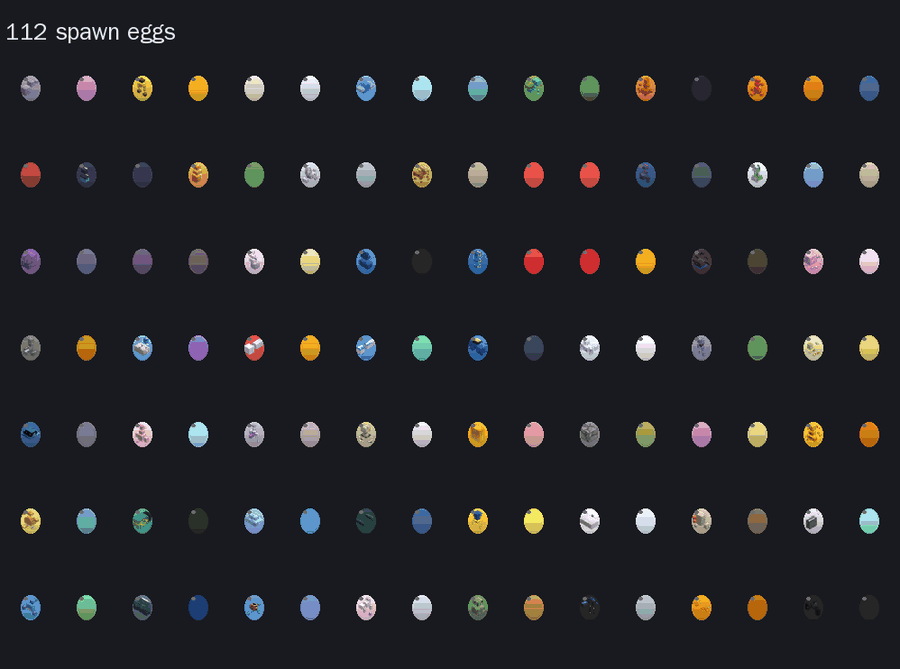
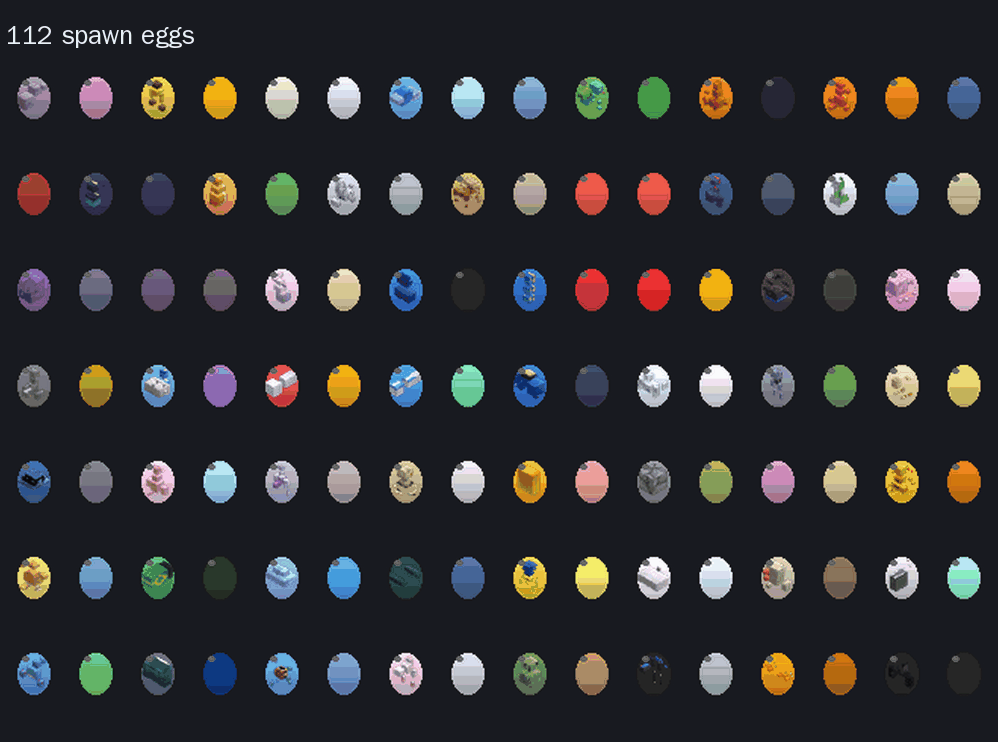
docs: use Pokedex portraits for the species sheet
- entity textures are UV atlases (unreadable when tiled) -> use dex_*.png portraits instead
- anchors lang regex to line start so labels are species names, not spawn-egg names
- bigger cells (150px, 6 columns) and LANCZOS upscaling so each species is legible
- drop the redundant dex.png sheet

diff --git a/tools/gen_docs_images.py b/tools/gen_docs_images.py
@@ -45,7 +45,8 @@ def grid(images, cols, cell, pad, labels=None, title=None, label_h=34):
         y = head + pad + r * (cell + label_h + pad)
         box = Image.new("RGBA", (cell, cell), (0, 0, 0, 0))
         im2 = im.copy()
-        im2.thumbnail((cell - 8, cell - 8), Image.LANCZOS)
+        im2 = im2.resize((int(im2.width * min((cell - 8) / im2.width, (cell - 8) / im2.height)),
+                          int(im2.height * min((cell - 8) / im2.width, (cell - 8) / im2.height))), Image.LANCZOS)
         box.alpha_composite(im2, ((cell - im2.width) // 2, (cell - im2.height) // 2))
         canvas.paste(box, (x, y), box)
         if labels:
@@ -59,12 +60,13 @@ def main(pack_dir, out_dir):
     zh = open(os.path.join(rp, "texts", "zh_CN.lang"), encoding="utf-8").read()
     ja = open(os.path.join(rp, "texts", "ja_JP.lang"), encoding="utf-8").read()
     en = open(os.path.join(rp, "texts", "en_US.lang"), encoding="utf-8").read()
-    ZH = dict(re.findall(r"entity\.poke:([a-z_]+)\.name=(.+)", zh))
-    JA = dict(re.findall(r"entity\.poke:([a-z_]+)\.name=(.+)", ja))
-    EN = dict(re.findall(r"entity\.poke:([a-z_]+)\.name=(.+)", en))
+    ZH = dict(re.findall(r"^entity\.poke:([a-z_]+)\.name=(.+)", zh, re.M))
+    JA = dict(re.findall(r"^entity\.poke:([a-z_]+)\.name=(.+)", ja, re.M))
+    EN = dict(re.findall(r"^entity\.poke:([a-z_]+)\.name=(.+)", en, re.M))
 
     base = sorted(k for k in ZH if not k.endswith("_shiny"))
-    tex = {os.path.basename(p)[:-4]: p for p in glob.glob(os.path.join(rp, "textures", "entity", "pokemon", "*.png"))}
+    # 實體貼圖是 UV 展開圖，直接拼會變碎片 → 用圖鑑頭像（角色臉）
+    tex = {os.path.basename(p)[4:-4]: p for p in glob.glob(os.path.join(rp, "textures", "ui", "dex_*.png"))}
 
     # 1) 全物種
     imgs, labels = [], []
@@ -72,7 +74,7 @@ def main(pack_dir, out_dir):
         if pid in tex:
             imgs.append(Image.open(tex[pid]).convert("RGBA"))
             labels.append(f"{ZH[pid]}\n{EN.get(pid, pid)}\n{JA.get(pid, pid)}")
-    grid(imgs, 8, 116, 14, labels,
+    grid(imgs, 6, 150, 16, labels,
          f"{len(imgs)} species  ·  zh_CN / en_US / ja_JP").save(os.path.join(out_dir, "species.png"))
     print("species.png", len(imgs), "隻")
 
@@ -87,7 +89,7 @@ def main(pack_dir, out_dir):
         for path, tag in ((a, ""), (b, " ✦")):
             imgs.append(Image.open(path).convert("RGBA"))
             labels.append(f"{ZH[pid]}{tag}")
-    grid(imgs, 8, 104, 12, labels, f"Shiny variants ({len(pairs)} pairs, 1/64 chance)").save(
+    grid(imgs, 8, 130, 14, labels, f"Shiny variants ({len(pairs)} pairs, 1/64 chance)").save(
         os.path.join(out_dir, "shiny.png"))
     print("shiny pairs", len(pairs))
 
@@ -98,14 +100,10 @@ def main(pack_dir, out_dir):
     print("eggs.png", len(eggs))
 
     # 4) 圖鑑頭像
-    dex = sorted(glob.glob(os.path.join(rp, "textures", "ui", "dex_*.png")))
-    if dex:
-        grid([Image.open(p).convert("RGBA") for p in dex], 16, 56, 6, None,
-             f"{len(dex)} Pokedex portraits").save(os.path.join(out_dir, "dex.png"))
-        print("dex.png", len(dex))
+    # 圖鑑頭像已併進 species.png，不另外輸出
 
     # 5) 道具
-    ITEMS = dict(re.findall(r"item\.poke:([a-z_0-9]+)=(.*)", zh))
+    ITEMS = dict(re.findall(r"^item\.poke:([a-z_0-9]+)=(.*)", zh, re.M))
     texmap = json.load(open(os.path.join(rp, "textures", "item_texture.json"), encoding="utf-8"))["texture_data"]
     ic = {}
     for key, val in texmap.items():

diff --git a/README.md b/README.md
@@ -22,7 +22,8 @@ Script API（`@minecraft/server`），沒有依賴任何外部模組載入器。
 
 ![species](docs/images/species.png)
 
-57 種基礎型，標註繁體中文 / English / 日本語 三種名稱。含 24 隻經典人氣角色、13 隻大型傳說、
+57 種基礎型，每格上方是**圖鑑頭像**（由方塊模型渲染）＋ 繁體中文 / English / 日本語 三種名稱——
+下方那張圖示就是遊戲內圖鑑 GUI 左側顯示的同一個檔案。含 24 隻經典人氣角色、13 隻大型傳說、
 以及 20 隻後來追加的傳說與準傳說（三聖鳥、雷吉五兄弟、班基拉斯、暴飛龍、巨金怪、三首惡龍…）。
 
 ### 異色（Shiny）對照
@@ -38,12 +39,6 @@ Script API（`@minecraft/server`），沒有依賴任何外部模組載入器。
 
 每個蛋的圖示是用該寶可夢的 3D 頭像等角投影合成蛋殼後畫出來的，手持右鍵即可召喚。
 蛋的名稱寫在資源包 `lang` 的 `item.spawn_egg.entity.poke:<id>.name`。
-
-### 圖鑑頭像
-
-![dex](docs/images/dex.png)
-
-圖鑑 GUI 左側顯示的 64×64 頭像。手持圖鑑右鍵開啟，可瀏覽已捕獲物種並直接召喚夥伴。
 
 ### 精靈球與道具
 
